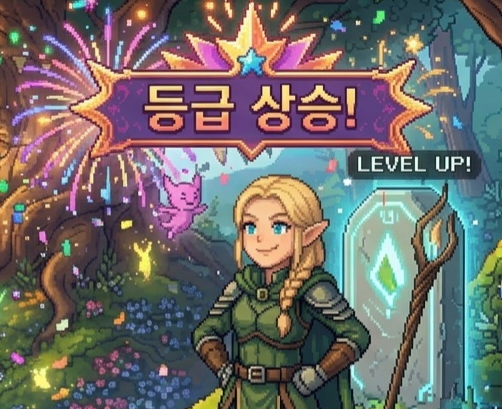
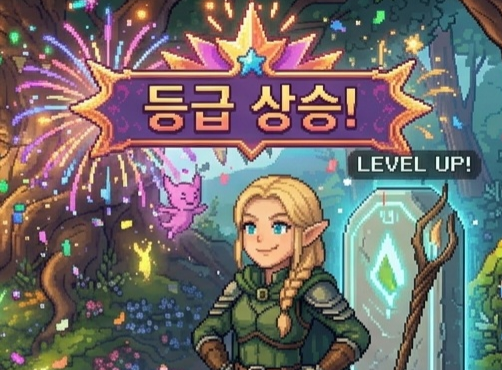
Add files via upload

diff --git a/index.html b/index.html
@@ -289,22 +289,29 @@
         .boss-raid-btn {
             display: none;
             background: linear-gradient(180deg, #b91c1c 0%, #7f1d1d 100%);
-            border: 2px solid #ef4444;
-            color: #fee2e2;
-            padding: 10px 12px;
-            border-radius: 10px;
-            font-size: 12.5px;
+            border: 2.5px solid #ef4444; /* 🌟 붉은 테두리 강화 */
+            color: #ffffff !important;
+            padding: 17px 14px;          /* 🌟 기존 10px ➔ 17px로 대폭 확장! (즉시출격 14px보다 더 큼) */
+            border-radius: 14px;
+            font-size: 16px;             /* 🌟 글자 크기 12.5px ➔ 16px로 큼직하게! */
             font-weight: 900;
             cursor: pointer;
             width: 100%;
-            margin-bottom: 6px;
+            margin-bottom: 8px;
             justify-content: center;
             align-items: center;
             flex-shrink: 0;
-            box-shadow: 0 0 12px rgba(239, 68, 68, 0.4);
+            box-shadow: 0 0 18px rgba(239, 68, 68, 0.6), 0 4px 10px rgba(0,0,0,0.5); /* 붉은 마력 발광 */
             animation: bossBtnPulse 1.8s infinite;
+            text-shadow: 0 2px 4px rgba(0,0,0,0.6);
+            letter-spacing: -0.5px;
+            box-sizing: border-box;
         }
-        @keyframes bossBtnPulse { 0% { transform: scale(1); } 50% { transform: scale(1.02); } 100% { transform: scale(1); } }
+        @keyframes bossBtnPulse { 
+            0% { transform: scale(1); box-shadow: 0 0 14px rgba(239, 68, 68, 0.4); } 
+            50% { transform: scale(1.02); box-shadow: 0 0 24px rgba(239, 68, 68, 0.85); } 
+            100% { transform: scale(1); box-shadow: 0 0 14px rgba(239, 68, 68, 0.4); } 
+        }
 
         .map-select-header {
             display: flex;
@@ -432,18 +439,19 @@
         .guardian-trial-btn {
             background: linear-gradient(180deg, #10b981 0%, #059669 100%);
             border: 2px solid #047857;
-            color: #ffffff !important;           /* 🌟 순백색 고정 */
-            padding: 10px 12px;
-            border-radius: 10px;
-            font-size: 13px;
-            font-weight: 900 !important;         /* 🌟 900 두께 고정 */
+            color: #ffffff !important;
+            padding: 16px 14px;      /* 🌟 16px 메인 규격 통일 */
+            border-radius: 14px;
+            font-size: 15px;         /* 🌟 글자 확대 */
+            font-weight: 900 !important;
             text-shadow: 0 1px 2px rgba(0,0,0,0.3);
             cursor: pointer;
             width: 100%;
-            margin-bottom: 5px;
+            margin-bottom: 6px;
             flex-shrink: 0;
-            box-shadow: 0 3px 6px rgba(16, 185, 129, 0.3);
+            box-shadow: 0 3px 8px rgba(16, 185, 129, 0.35);
             transition: all 0.2s;
+            box-sizing: border-box;
         }
         .guardian-trial-btn.locked {
             background: #78716c;
@@ -695,11 +703,23 @@
 
 /* 🌟 2배 커진 메인 액션 버튼 */
         .btn-wood {
-            background: #5c3a21; color: #f7edd4; border: 2px solid #3d2314;
-            padding: 16px 14px; /* 기존 10px에서 16px로 대폭 확대 */
-            border-radius: 12px; font-size: 15px; font-weight: 900; /* 글자도 확대 */
-            cursor: pointer; box-shadow: 0 4px 8px rgba(0,0,0,0.25); width: 100%; transition: all 0.2s;
+            background: #5c3a21; 
+            color: #f7edd4; 
+            border: 2px solid #3d2314;
+            padding: 16px 14px;      /* 🌟 16px로 두툼하게 표준화 */
+            border-radius: 14px; 
+            font-size: 15.5px;       /* 🌟 큼직한 글씨 */
+            font-weight: 900;
+            cursor: pointer; 
+            box-shadow: 0 4px 10px rgba(0,0,0,0.25); 
+            width: 100%; 
+            transition: all 0.15s ease;
             flex-shrink: 0;
+            box-sizing: border-box;
+            display: flex;
+            justify-content: center;
+            align-items: center;
+            touch-action: manipulation;
         }
         .btn-wood:hover { background: #73492a; transform: translateY(-1px); }
         .btn-wood:active { transform: scale(0.98); }
@@ -731,13 +751,27 @@
             100% { transform: scale(1); box-shadow: 0 4px 12px rgba(22, 163, 74, 0.35); }
         }
 
-        .btn-sub-wood {
-            background: #ede3cc; color: #5c3a21; border: 1px solid #c9b48c;
-            padding: 8px; border-radius: 10px; font-size: 12px; font-weight: 800;
-            cursor: pointer; width: 100%; transition: all 0.2s;
+      .btn-sub-wood {
+            background: #ede3cc; 
+            color: #5c3a21; 
+            border: 1.5px solid #c9b48c;
+            padding: 13px 12px;      /* 🌟 기존 8px ➔ 13px로 대폭 벌크업! */
+            border-radius: 12px; 
+            font-size: 13.5px;       /* 🌟 글자 크기 12px ➔ 13.5px로 확대 */
+            font-weight: 800;
+            cursor: pointer; 
+            width: 100%; 
+            transition: all 0.15s ease;
             flex-shrink: 0;
+            box-sizing: border-box;
+            display: flex;
+            justify-content: center;
+            align-items: center;
+            touch-action: manipulation;
+            margin-bottom: 6px;
         }
         .btn-sub-wood:hover { background: #dfd2b5; }
+        .btn-sub-wood:active { transform: scale(0.98); }
 
         .feedback-card {
             background: #ede3cc; border: 2px solid #d4c29d; border-radius: 12px;
@@ -1159,10 +1193,13 @@
             <div class="title-map-list" id="titleMapListContainer"></div>
 
             <div class="title-bottom-links">
-                <div style="display:flex; gap:8px; margin-top:4px; flex-shrink:0;">
-                    <button class="top-btn" style="flex:1; padding:10px; font-size:13px; font-weight:900; background:#5c3a21; border-color:#8f603a;" onclick="openWordBook(true)">📖 모험 일지
+                <div style="display:flex; gap:8px; width:100%; margin-top:2px; flex-shrink:0;">
+                    <!-- 🌟 padding 13px로 두툼하고 큼직하게 통일 -->
+                    <button class="top-btn" style="flex:1; padding:13px 10px; font-size:14px; font-weight:900; background:#5c3a21; border-color:#8f603a; border-radius:12px;" onclick="openWordBook(true)">
+                        📖 모험 일지
                     </button>
-                    <button class="top-btn" style="flex:1; padding:10px; font-size:13px; font-weight:900; background:#ede3cc; color:#5c3a21; border-color:#c9b48c;" onclick="openSettingsModal()">⚙ 환경 설정
+                    <button class="top-btn" style="flex:1; padding:13px 10px; font-size:14px; font-weight:900; background:#ede3cc; color:#5c3a21; border-color:#c9b48c; border-radius:12px;" onclick="openSettingsModal()">
+                        ⚙ 환경 설정
                     </button>
                 </div>
             </div>
@@ -1526,7 +1563,7 @@
     <!-- 🌟 중간보스(수호령) 진입 전 확인 화면 모달 -->
     <div id="midBossNoticeModal" class="modal">
         <div style="flex:1; display:flex; flex-direction:column; justify-content:center; align-items:center; width:100%;">
-            <div class="art-box" id="midBossNoticeArtBox" style="margin-bottom:8px; border-color:#059669; height:120px;"></div>
+            <div class="art-box" id="midBossNoticeArtBox" style="margin-bottom:8px; border-color:#059669; height:300px;"></div>
             <div class="ending-card-box" style="border-color:#059669; background:#ecfdf5;">
                 <span class="ending-badge-top" id="midBossNoticeSubBadge" style="color:#047857;">GUARDIAN'S TRIAL READY</span>
                 <h2 class="ending-title" id="midBossNoticeTitle" style="color:#065f46; font-size:18px;">수호령의 시련 대면</h2>
@@ -1558,9 +1595,9 @@
             justify-content: flex-start; 
             align-items:center; 
             width:100%;
-            padding-top: 25px">
+            padding-top: 5px">
 
-            <div id="fbArtBox" class="art-box" style="margin-bottom:10px; margin-top:10px; height:160px; position:relative;">
+            <div id="fbArtBox" class="art-box" style="margin-bottom:10px; margin-top:10px; height:240px; position:relative;">
             <!-- 미리 로딩해두는 정답 이미지 -->
             <img id="fbImgCorrect" src="images/fb_correct.png" style="width:100%; height:100%; object-fit:cover; display:none;" alt="정답">
             <!-- 미리 로딩해두는 오답 이미지 -->
@@ -1980,10 +2017,10 @@
 
         // [4대 영지 테마 배경 4장 & 수호령 4장 = 총 8장]
         themes: {
-            forest: { bg: "images/bg_forest.png", boss: "images/boss_forest.png" },
-            water:  { bg: "images/bg_water.png",  boss: "images/boss_water.png" },
-            sky:    { bg: "images/bg_sky.png",    boss: "images/boss_sky.png" },
-            ruins:  { bg: "images/bg_ruins.png",  boss: "images/boss_ruins.png" }
+            forest: { bg: "images/bg_forest.png", boss: "images/boss_forest.png", bossBattle: "images/boss_forest_battle.png" },
+            water:  { bg: "images/bg_water.png",  boss: "images/boss_water.png",  bossBattle: "images/boss_water_battle.png" },
+            sky:    { bg: "images/bg_sky.png",    boss: "images/boss_sky.png",    bossBattle: "images/boss_sky_battle.png" },
+            ruins:  { bg: "images/bg_ruins.png",  boss: "images/boss_ruins.png",  bossBattle: "images/boss_ruins_battle.png" }
         }
     };
 
@@ -2370,13 +2407,21 @@
         return renderImage(theme.bg, 'cover');
     }
 
+    // 안내 팝업창에서 쓰는 기본 수호령 이미지
     function getThemeGuardianBossSVG(themeType) {
         const theme = GAME_ASSETS.themes[themeType] || GAME_ASSETS.themes.forest;
         return renderImage(theme.boss, 'cover');
     }
 
+    // 7초 타임어택 전투 화면에서만 쓰는 클로즈업 일러스트!
+    function getThemeGuardianBattleSVG(themeType) {
+        const theme = GAME_ASSETS.themes[themeType] || GAME_ASSETS.themes.forest;
+        // 전투 전용 이미지를 가져옴 (혹시 파일이 없으면 기본 이미지로 안전 복구)
+        const imgSrc = theme.bossBattle || theme.boss;
+        return renderImage(imgSrc, 'cover');
+    }
 
-    /* 👑 마왕 『EXAM』 전투 그래픽 (A안: 붉은 시계와 오답 낙인의 군주) */
+    /* 👑 마왕 『EXAM』 전투 그래픽 */
     function getDemonLordArtSVG() {
         return renderImage(GAME_ASSETS.demonLord, 'cover');
     }
@@ -3188,12 +3233,15 @@
         // 🌟 [추가] 파일 최종 수정 시각 자동 반영!
         const buildEl = document.getElementById("gameBuildVersion");
         if (buildEl) {
-            // 브라우저가 읽어온 파일의 최종 저장 일시 (예: 03/30 15:42)
             const lastMod = new Date(document.lastModified);
-            const dateStr = `${lastMod.getMonth()+1}/${lastMod.getDate()} ${String(lastMod.getHours()).padStart(2,'0')}:${String(lastMod.getMinutes()).padStart(2,'0')}`;
+            const year = lastMod.getFullYear(); // 🌟 2026 등 4자리 연도
+            const month = String(lastMod.getMonth() + 1).padStart(2, '0');
+            const day = String(lastMod.getDate()).padStart(2, '0');
+            const hours = String(lastMod.getHours()).padStart(2, '0');
+            const minutes = String(lastMod.getMinutes()).padStart(2, '0');
             
-            // 💡 "v1.2" 부분만 가끔 올려주셔도 되고, 뒤의 업데이트 시간만 보셔도 됩니다!
-            buildEl.innerText = `v1.2 · Update: ${dateStr}`;
+            // 💡 출력 예시: v1.2 · Update: 2026.03.30 15:42
+            buildEl.innerText = `v1.2 · Update: ${year}.${month}.${day} ${hours}:${minutes}`;
         }
 
         // 7. 최종 화면 전환
@@ -3873,7 +3921,7 @@ function startMidBossRaid() {
         document.getElementById("bossQuestionTag").style.color = "#a7f3d0";
         document.getElementById("bossWordDisplay").style.color = "#065f46";
 
-        document.getElementById("bossArtBox").innerHTML = getThemeGuardianBossSVG(theme.type);
+        document.getElementById("bossArtBox").innerHTML = getThemeGuardianBattleSVG(theme.type);
 
         document.getElementById("titleScreen").style.display = "none";
         document.getElementById("mapLobbyScreen").style.display = "none";
